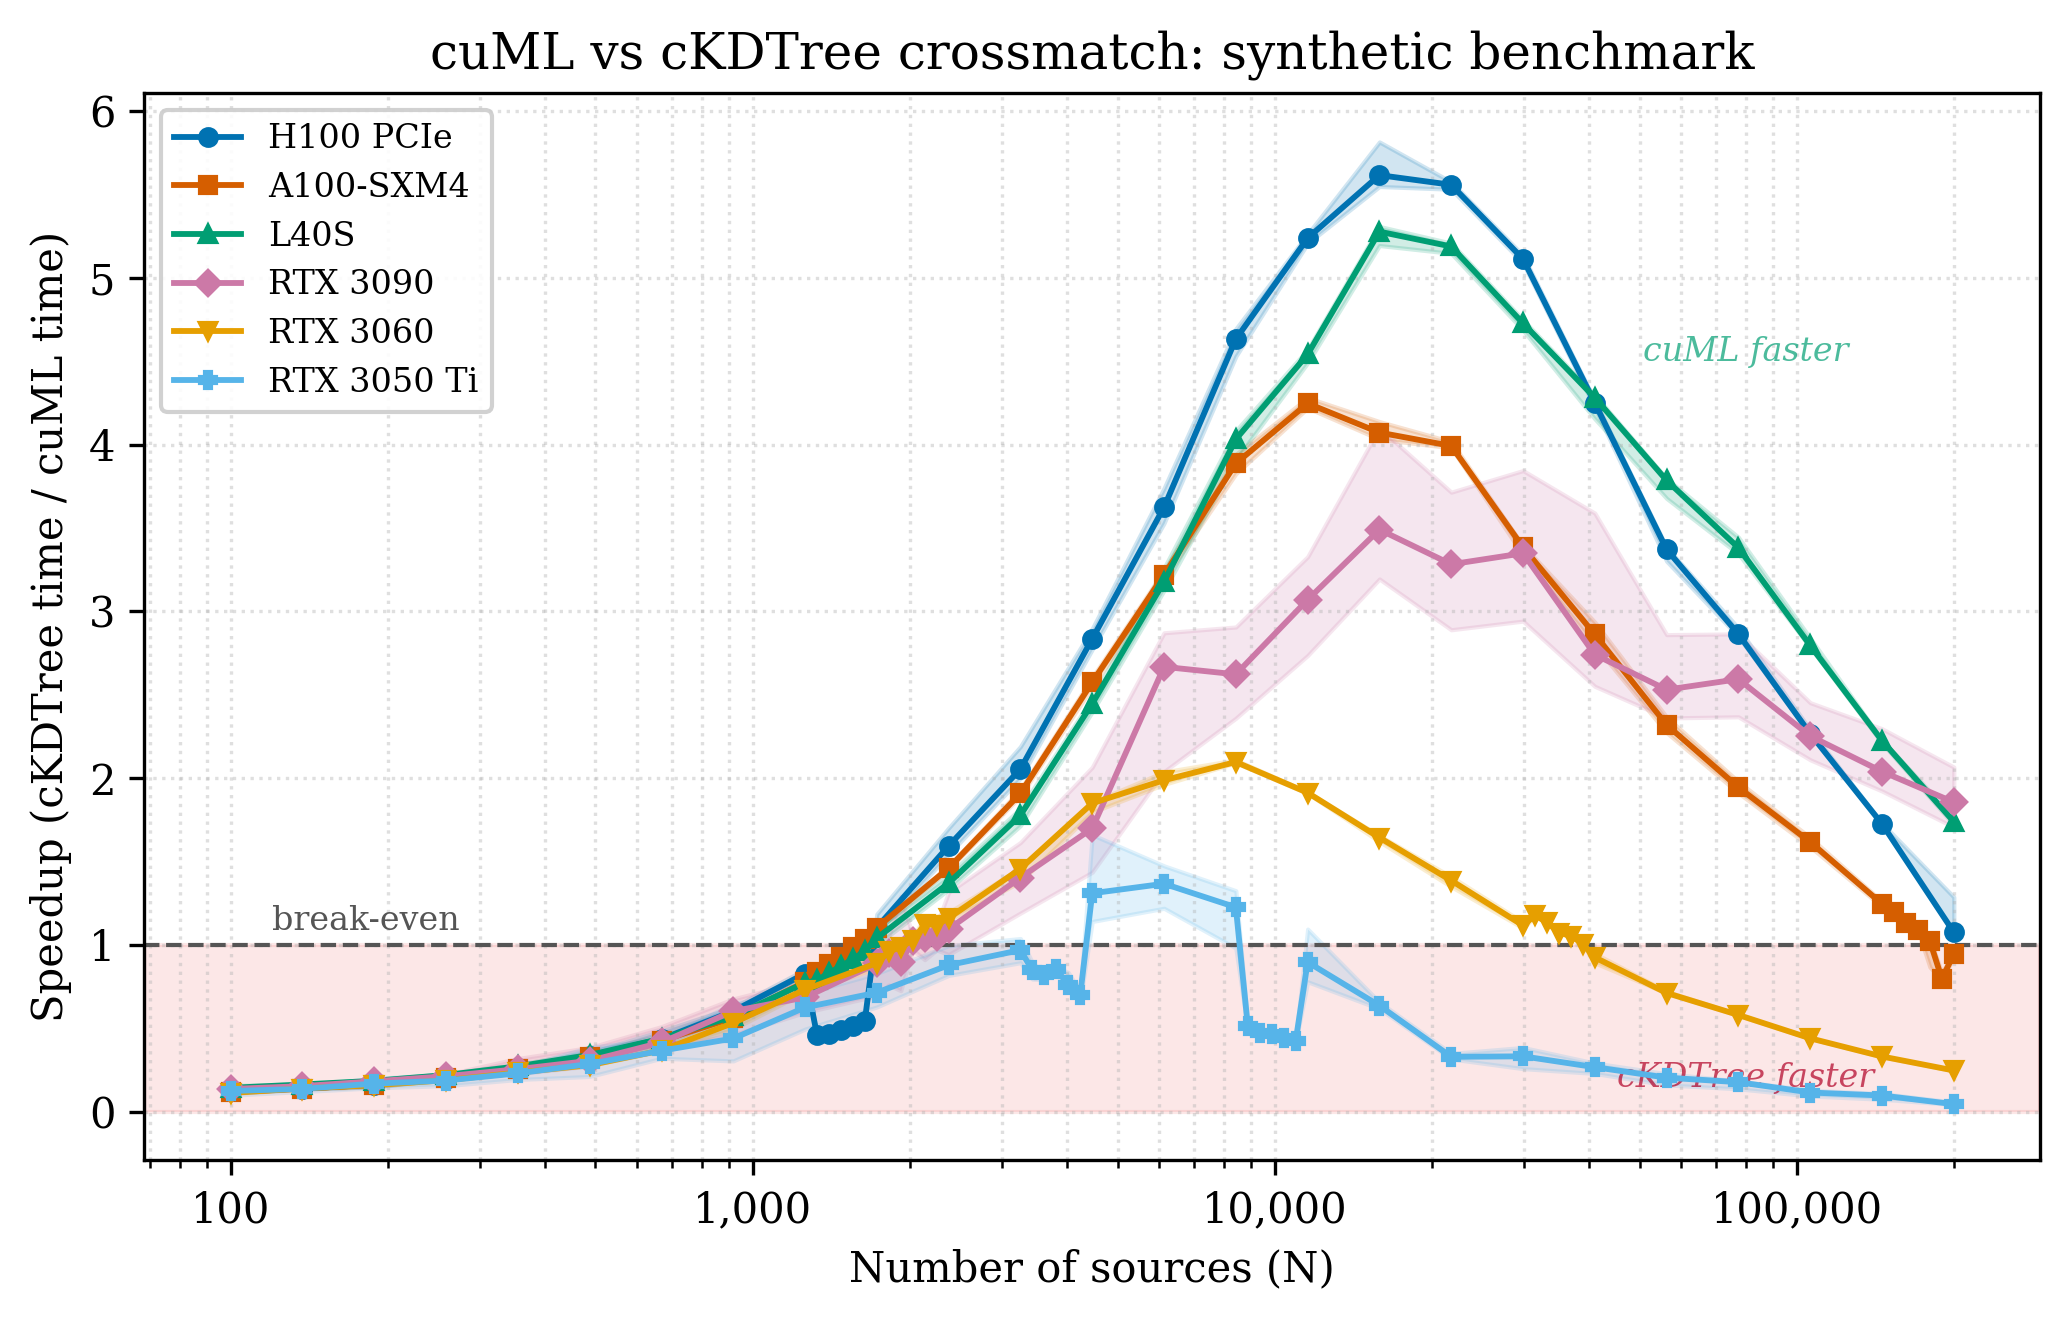
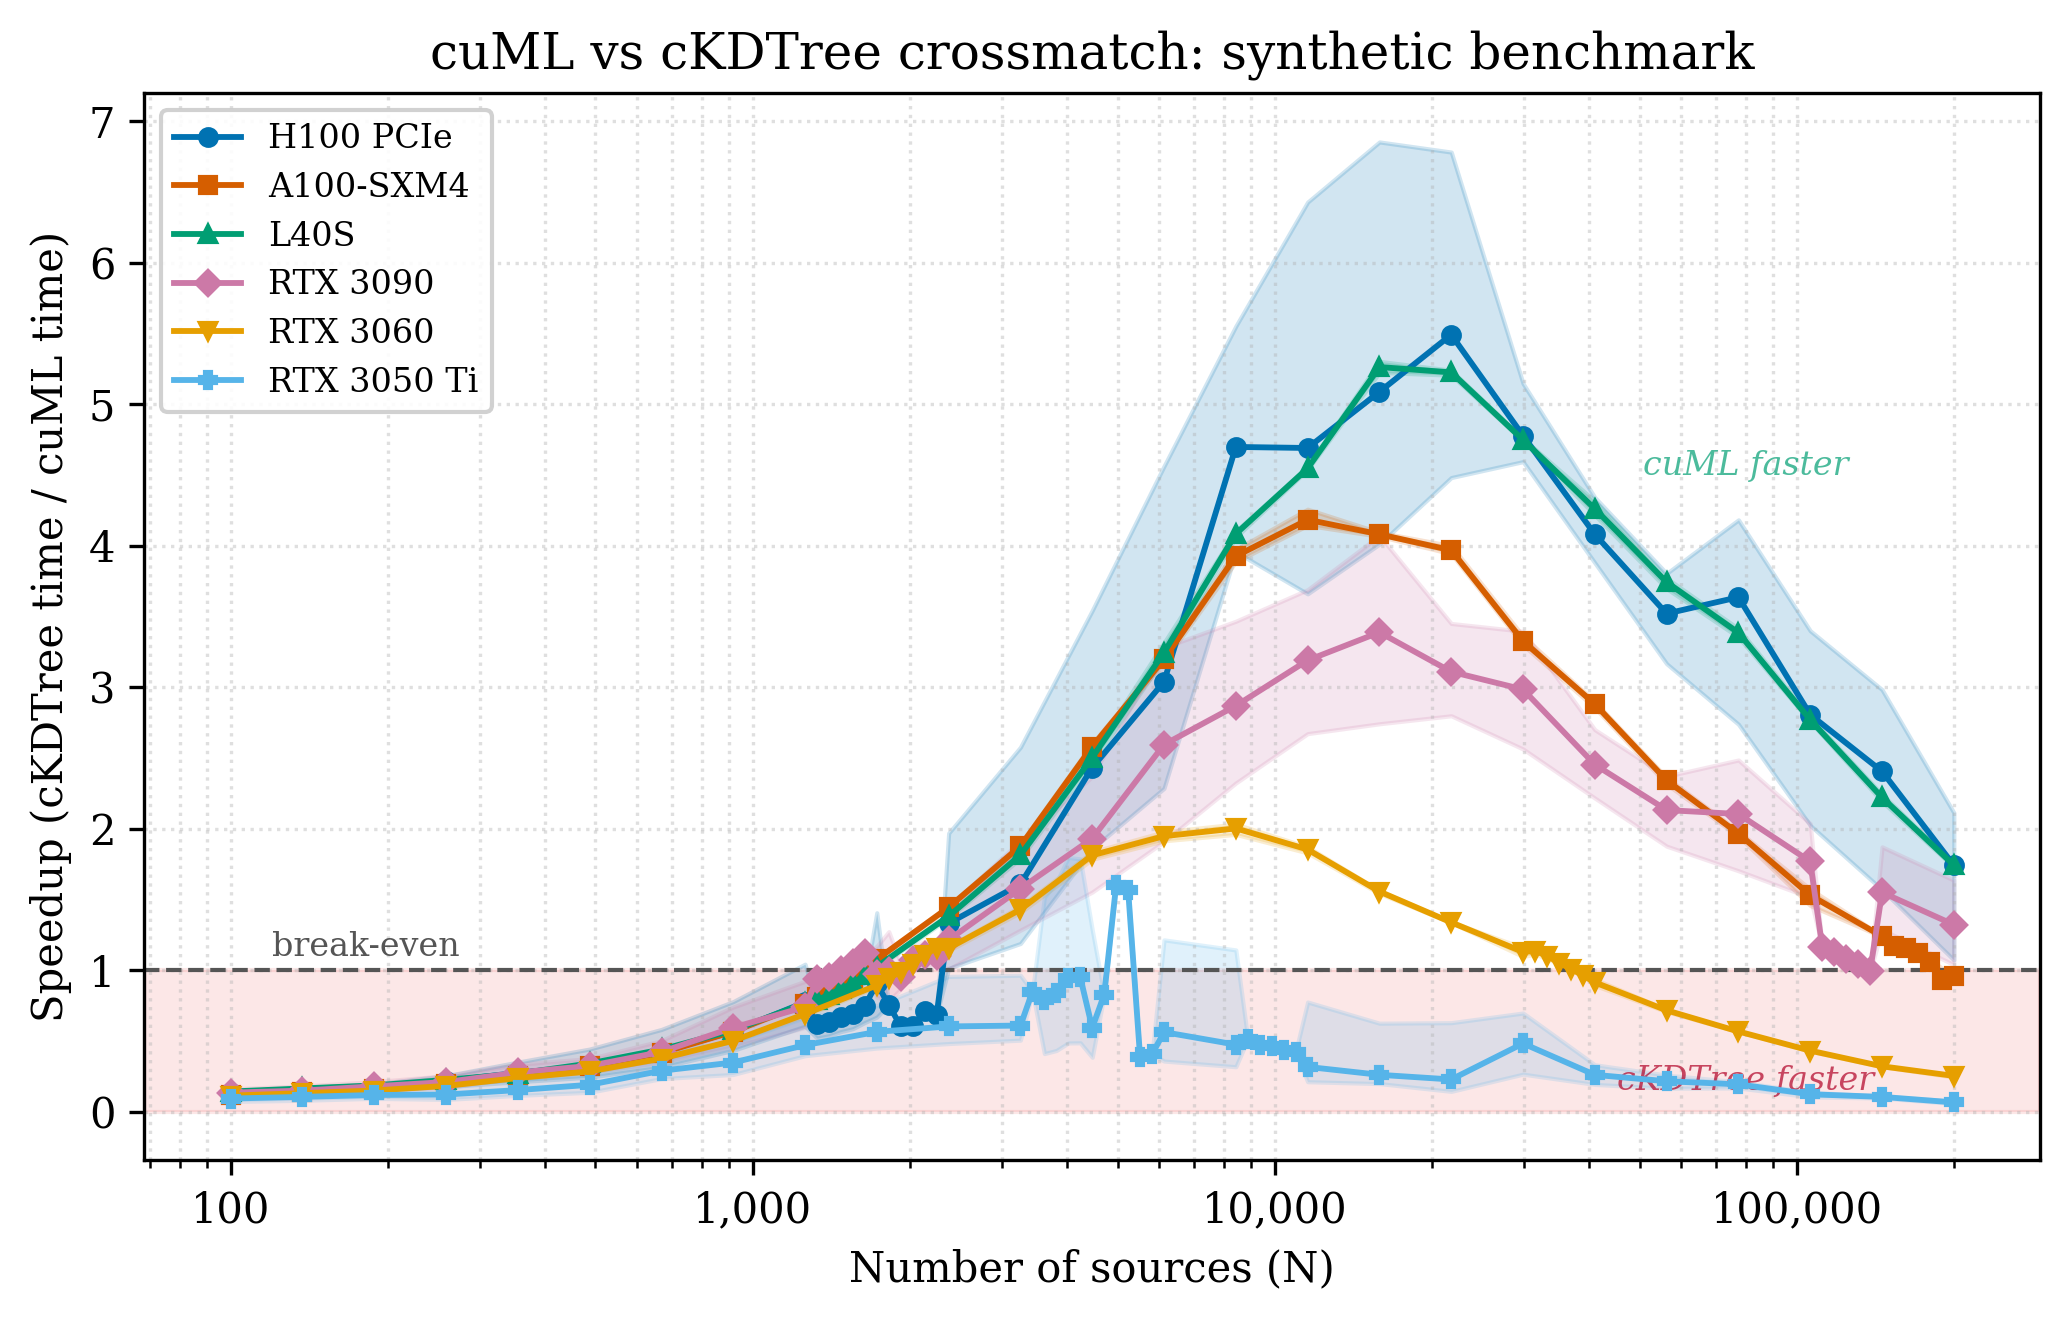
changes

diff --git a/benchmarks/generate_manuscript_figures.py b/benchmarks/generate_manuscript_figures.py
@@ -65,7 +65,7 @@ os.makedirs(OUT_DIR, exist_ok=True)
 
 BENCHMARK_CSV = os.path.join(DATA_DIR, 'benchmark_all_cuml_v2.csv')
 MEMORY_CSV    = os.path.join(DATA_DIR, 'profiler_nsys_memory_summary_20260411.csv')
-CUML_CSV      = os.path.join(DATA_DIR, 'cuml_crossover_synthetic_all_gpus_20260414.csv')
+CUML_CSV      = os.path.join(DATA_DIR, 'cuml_crossover_synthetic_all_gpus_averaged.csv')
 
 # ── GPU label normalisation ───────────────────────────────────────────────────
 GPU_LABEL_MAP = {

diff --git a/gpuphot/phot/photo_gpu.py b/gpuphot/phot/photo_gpu.py
@@ -3129,7 +3129,7 @@ def calibrate_image(imdata: np.ndarray, filter: str, scale: float, gain: float, 
             logger.warning('Error calculating limiting magnitude: {}'.format(e))
         dic_calib['MAGLIM'] = maglim3
 
-        # Get all the sources
+        #Get all the sources
         logger.info('Getting all sources from catalog until magnitude limit {}'.format(zp_maxmag))
         result, catalog, ref_filter = catalog_results(coocenter, FOV / 2,
                                                         filter, maglimit=zp_maxmag, **kwargs)
